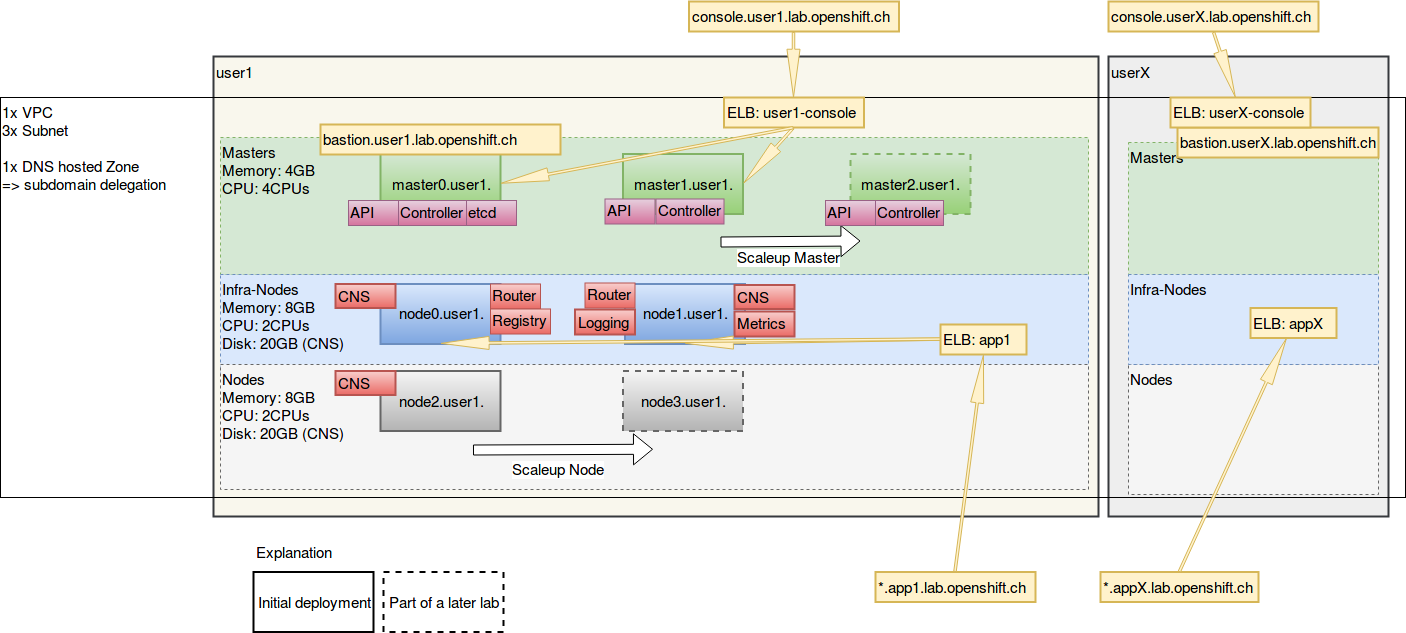
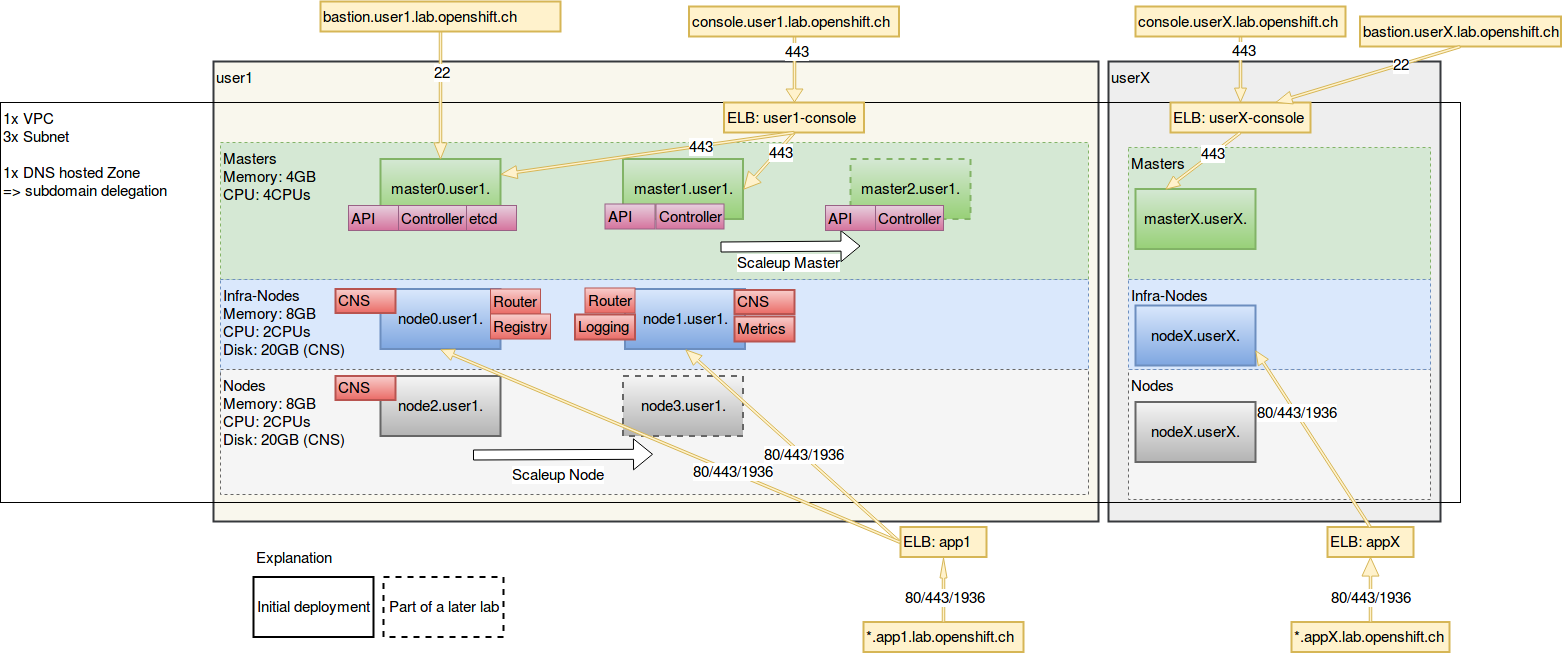
Cleanup for eLB

diff --git a/labs/312_access_environment.md b/labs/312_access_environment.md
@@ -6,14 +6,17 @@ Lab 3.1.2: Learn how to access the lab environment
 We will write "user[X]" during the labs for user specific documentations. Everybody gets an ID an needs to use this ID, to use his environment.
 
 For example for ID 1:
-https://console.user[X].lab.openshift.ch
+- https://console.user[X].lab.openshift.ch
 =>
-https://console.user1.lab.openshift.ch
+- https://console.user1.lab.openshift.ch
 
 
 There are three main ways we will access our environment. These ports need to be open from our place outgoing to Amazon AWS.
+
 1. API: Using the oc client or through a web browser. (443/HTTPS)
     1. The console API will be available through: console.user[X].lab.openshift.ch
+
 1. Router: The deployed apps will be available through the routers. We will access them mainly through a web browser. (443/HTTPS and 80/HTTP)
+
 1. Architecture: We will connect through ssh to the bastion host. This will be our main control instance. (22/SSH) 
-    1. You can connect to the bastion host through: ssh -i ~/.ssh/puzzle-techlab.pem ec2-user@bastion.user[X].lab.openshift.ch
+    1. You can connect to the bastion host through: ssh ec2-user@bastion.user[X].lab.openshift.ch
